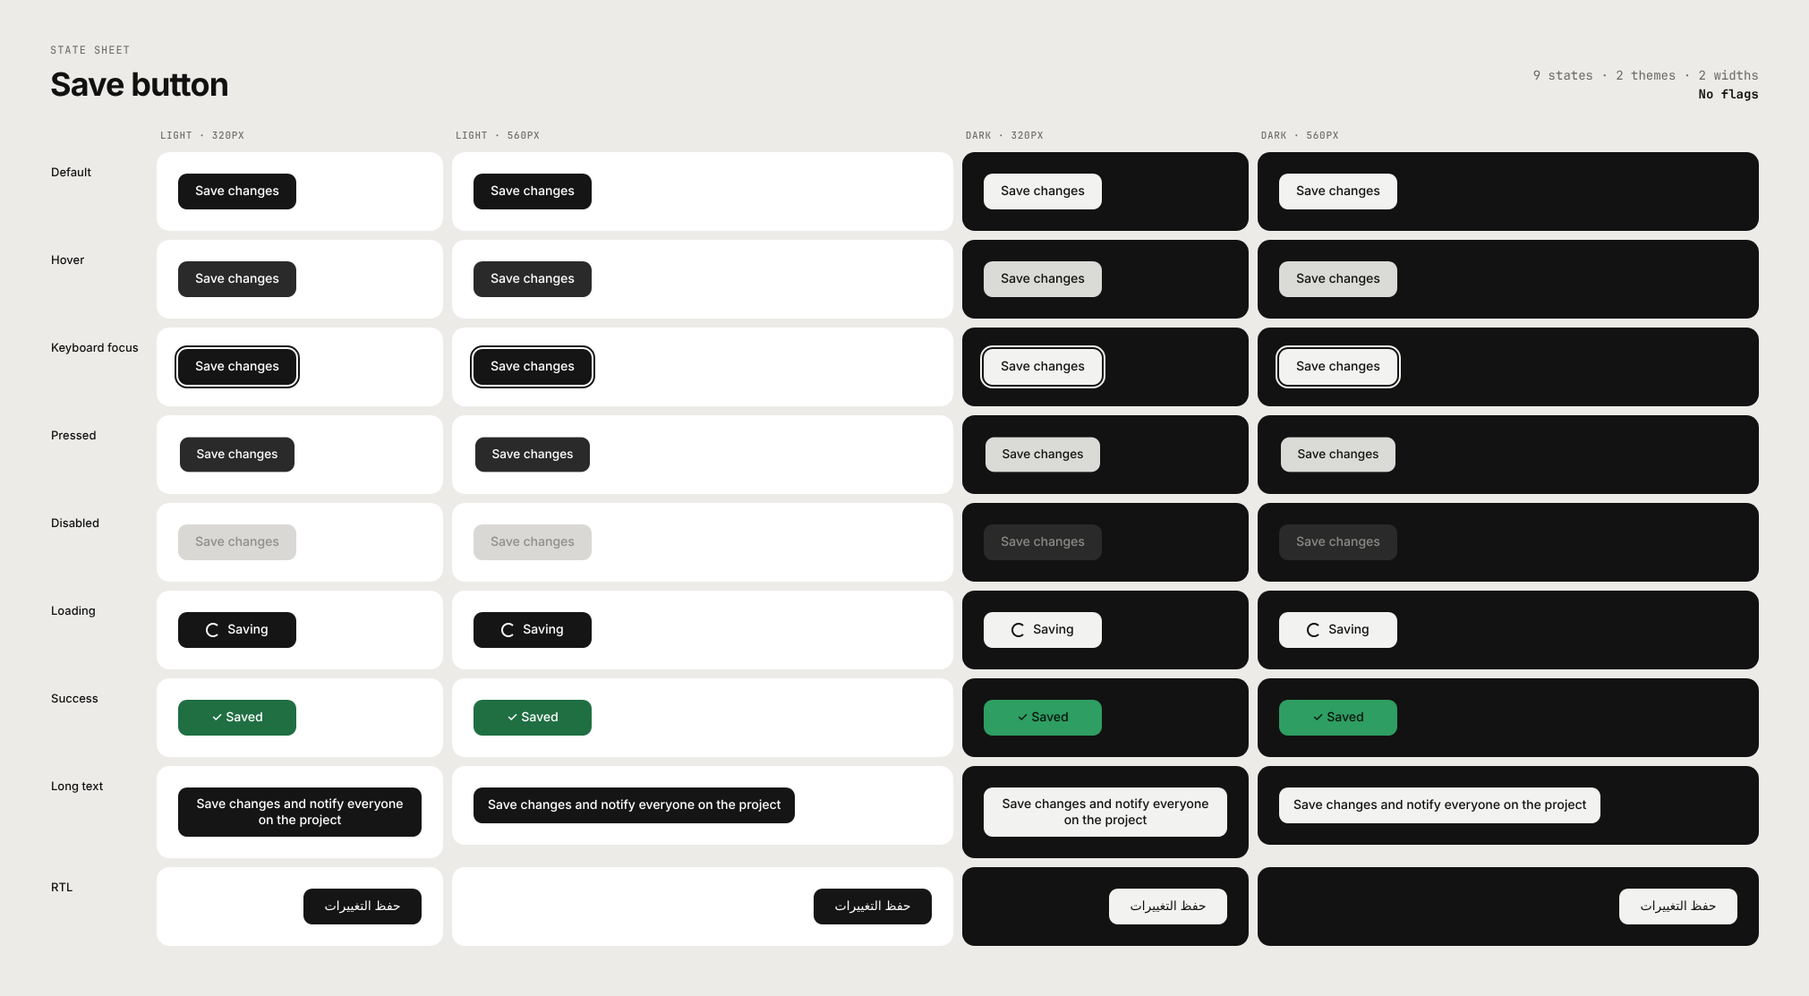
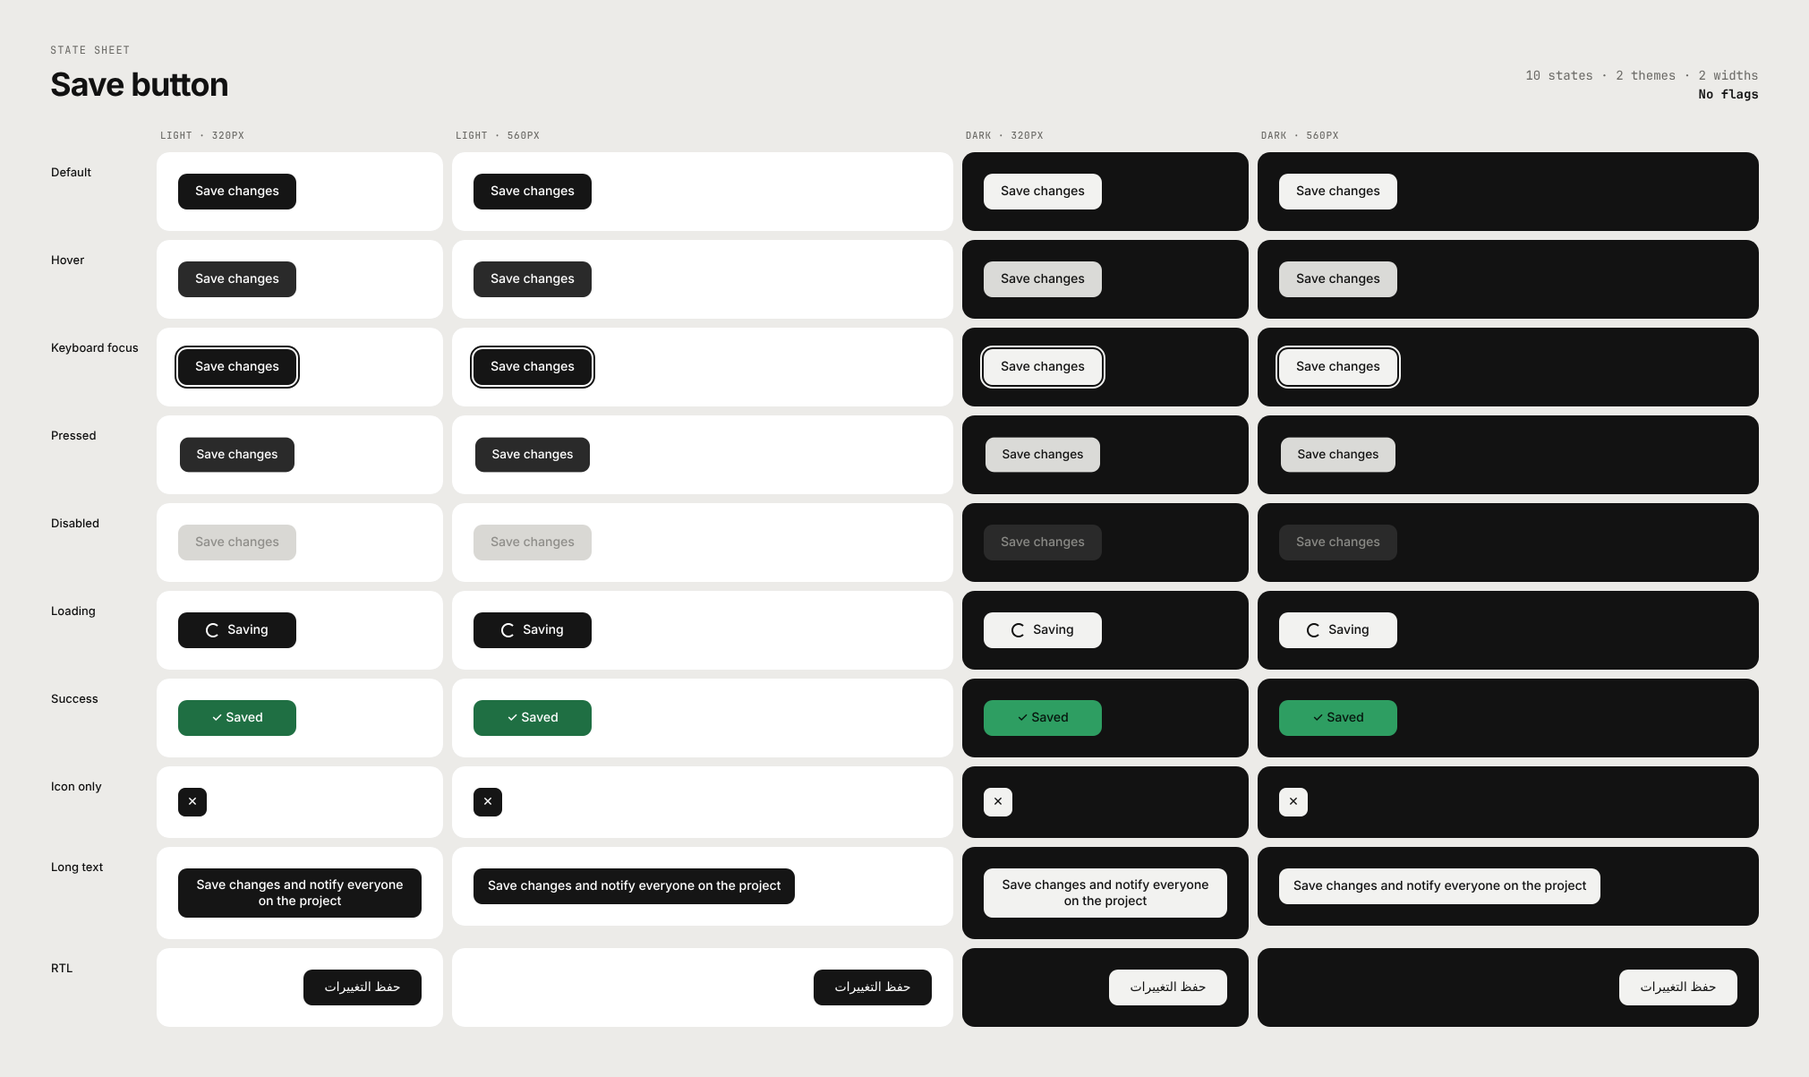
v2: audit against current skill practice
See CHANGELOG.md for the full list of changes in 2.0.0.

Claude-Session: https://claude.ai/code/session_01Y9BqH23FXbrPyWyWBAuxvH

diff --git a/scripts/sheet.js b/scripts/sheet.js
@@ -5,7 +5,9 @@
  *   node scripts/sheet.js --html path/to/component.html --cases path/to/cases.json --out out/
  *   node scripts/sheet.js --url "http://localhost:5173/__sheet?case={case}&theme={theme}" --cases cases.json --out out/
  *
- * Options: --widths 320,560   --themes light,dark   --title "Pricing card"   --strict (exit 1 on any flag)
+ * Options: --widths 320,560   --themes light,dark   --title "Pricing card"   --only default,loading
+ *          --strict (exit 1 on any flag)
+ * Per case: "interact": "hover|focus|press", "dir": "rtl", "sameSizeAs": "<case id>", "reducedMotion": true
  *
  * Writes out/sheet.png, out/report.json and out/report.md.
  */
@@ -40,7 +42,9 @@ if ((!htmlPath && !urlTemplate) || !casesPath) {
 }
 
 const spec = JSON.parse(fs.readFileSync(casesPath, 'utf8'));
-const cases = spec.cases;
+const only = arg('only') ? arg('only').split(',') : null;
+const cases = only ? spec.cases.filter((c) => only.includes(c.id)) : spec.cases;
+if (!cases.length) { console.error('No cases to render' + (only ? ' (check --only ids)' : '')); process.exit(2); }
 const title = arg('title', spec.title || path.basename(path.dirname(path.resolve(casesPath))));
 fs.mkdirSync(outDir, { recursive: true });
 
@@ -126,6 +130,12 @@ async function inspect(page) {
       if (el.scrollWidth > el.clientWidth + 1 && cs.textOverflow === 'ellipsis' && /^[^\d]{0,6}[\d][\d,.\s-]*[^\d]{0,6}$/.test(txt)) {
         flags.push({ kind: 'overflow', msg: `Number cut off: "${label}"` });
       }
+      // Clipped vertically: a fixed height hides lines, with no line clamp to say it's on purpose.
+      const clipsY = ['hidden', 'clip'].includes(cs.overflowY) || ['hidden', 'clip'].includes(cs.overflow);
+      const clamped = cs.webkitLineClamp && cs.webkitLineClamp !== 'none';
+      if (el.scrollHeight > el.clientHeight + 2 && clipsY && !clamped) {
+        flags.push({ kind: 'overflow', msg: `Text clipped vertically: "${label}"` });
+      }
       // Spill: text box runs outside the component.
       if (er.right > r.right + 1 || er.left < r.left - 1) {
         const key = 'spill' + label;
@@ -142,6 +152,15 @@ async function inspect(page) {
         const need = large ? 3 : 4.5;
         const cr = ratio(fgSolid, bg);
         if (cr < need) flags.push({ kind: 'contrast', msg: `Contrast ${cr.toFixed(2)}:1 under ${need}:1 on "${label}"` });
+      }
+    }
+    // Target size (WCAG 2.2, 2.5.8): controls need at least 24 x 24 px. Links inside running text are exempt.
+    for (const el of root.querySelectorAll('button, a[href], input:not([type="hidden"]), select, textarea, [role="button"], [role="switch"], [role="checkbox"], [role="tab"]')) {
+      const b = el.getBoundingClientRect();
+      if (b.width === 0 || b.height === 0) continue;
+      if (el.tagName === 'A' && el.closest('p, li') && el.closest('p, li').textContent.trim().length > el.textContent.trim().length + 10) continue;
+      if (b.width < 24 || b.height < 24) {
+        flags.push({ kind: 'target', msg: `Target too small: ${Math.round(b.width)}x${Math.round(b.height)}px (needs 24x24)` });
       }
     }
     return { flags, size };
@@ -190,7 +209,7 @@ async function interact(page, c) {
   for (const c of cases) {
     for (const theme of themes) {
       for (const width of widths) {
-        const context = await browser.newContext({ viewport: { width: width + 48, height: 800 }, deviceScaleFactor: 2, colorScheme: theme });
+        const context = await browser.newContext({ viewport: { width: width + 48, height: 800 }, deviceScaleFactor: 2, colorScheme: theme, reducedMotion: c.reducedMotion ? 'reduce' : 'no-preference' });
         const page = await context.newPage();
         if (componentHtml) {
           await page.setContent(hostPage(componentHtml, c, theme, width), { waitUntil: 'load' });

diff --git a/examples/01-button/component.html b/examples/01-button/component.html
@@ -1,4 +1,4 @@
-<!-- Seeded bugs: focus ring removed, loading label low contrast and shrinks, long labels clipped. -->
+<!-- Seeded bugs: focus ring removed, loading label low contrast and shrinks, long labels clipped, icon button too small to tap. -->
 <style>
   .btn { font: 550 14px/1 Inter, system-ui, sans-serif; display: inline-flex; align-items: center; gap: 8px;
     height: 40px; padding: 0 16px; max-width: 200px; white-space: nowrap; overflow: hidden;
@@ -14,10 +14,12 @@
   [data-theme="dark"] .btn:hover { background: #DADAD7; }
   [data-theme="dark"] .btn.loading { background: #222; color: #444; }
   [data-theme="dark"] .btn.success { background: #2E9E62; color: #06150D; }
+  .btn.icon { width: 20px; height: 20px; min-width: 0; min-height: 0; padding: 0; justify-content: center; border-radius: 8px; font-size: 14px; }
   .spin { width: 12px; height: 12px; border-radius: 50%; border: 2px solid currentColor; border-right-color: transparent; }
 </style>
 <script>
   window.renderComponent = function (p) {
+    if (p.icon) return '<button class="btn icon" aria-label="' + p.label + '">✕</button>';
     var cls = 'btn' + (p.loading ? ' loading' : '') + (p.success ? ' success' : '');
     var inner = p.loading ? '<span class="spin"></span>Saving' : (p.success ? '✓ ' : '') + p.label;
     return '<button class="' + cls + '"' + (p.disabled ? ' disabled' : '') + '>' + inner + '</button>';

diff --git a/examples/02-pricing-card/component.html b/examples/02-pricing-card/component.html
@@ -1,9 +1,9 @@
-<!-- Seeded bugs: hard-coded grey text that disappears in dark mode, huge prices spill out. -->
+<!-- Seeded bugs: hard-coded grey text that disappears in dark mode, huge prices spill out, long plan names cut off at one line. -->
 <style>
   .card { font-family: Inter, system-ui, sans-serif; background: #fff; border-radius: 16px; padding: 20px;
     box-shadow: 0 0 0 1px rgba(0,0,0,.06), 0 8px 24px rgba(0,0,0,.06); color: #111; max-width: 300px; }
   [data-theme="dark"] .card { background: #1C1C1C; box-shadow: 0 0 0 1px rgba(255,255,255,.06); color: #F2F2F0; }
-  .plan { margin: 0 0 4px; font-size: 13px; font-weight: 550; color: #555; }
+  .plan { margin: 0 0 4px; font-size: 13px; line-height: 18px; height: 18px; overflow: hidden; font-weight: 550; color: #555; }
   .price { margin: 0 0 14px; font-size: 32px; font-weight: 700; letter-spacing: -.02em; white-space: nowrap; width: 160px; }
   .price small { font-size: 13px; font-weight: 450; color: #555; letter-spacing: 0; }
   ul { list-style: none; margin: 0 0 16px; padding: 0; font-size: 13px; line-height: 1.6; }

diff --git a/examples/01-button/component.fixed.html b/examples/01-button/component.fixed.html
@@ -15,10 +15,12 @@
   [data-theme="dark"] .btn:focus-visible { outline-color: #F2F2F0; }
   [data-theme="dark"] .btn.success { background: #2E9E62; color: #06150D; }
   [data-theme="dark"] .btn:disabled { background: #2A2A2A; color: #8A8A86; }
+  .btn.icon { width: 32px; height: 32px; min-width: 0; min-height: 0; padding: 0; justify-content: center; border-radius: 8px; font-size: 14px; }
   .spin { width: 12px; height: 12px; border-radius: 50%; border: 2px solid currentColor; border-right-color: transparent; }
 </style>
 <script>
   window.renderComponent = function (p) {
+    if (p.icon) return '<button class="btn icon" aria-label="' + p.label + '">✕</button>';
     var cls = 'btn' + (p.loading ? ' loading' : '') + (p.success ? ' success' : '');
     var inner = p.loading ? '<span class="spin"></span>Saving' : (p.success ? '✓ ' : '') + p.label;
     return '<button class="' + cls + '"' + (p.disabled ? ' disabled' : '') + (p.loading ? ' aria-busy="true"' : '') + '>' + inner + '</button>';

diff --git a/SKILL.md b/SKILL.md
@@ -12,27 +12,30 @@ Designers used to lay out every state of a component side by side and spot the b
 1. **Pick the cases.** Start from the standard list in `references/cases.md`. Keep the ones that apply to this component, and write realistic props for each (real names, real lengths, real numbers). Save them as `cases.json` next to the component.
 2. **Make the component renderable per case.** Two options:
    - **Plain HTML/CSS/JS:** write a `component.html` harness that defines `window.renderComponent(props, { theme })` and returns an HTML string or element. Include the component's real CSS. See `examples/`.
-   - **React, Vue, Svelte or any app with a dev server:** add a dev-only route, for example `/__sheet?case=<id>&theme=<light|dark>`, that renders the component with that case's props inside `<div data-sheet-root>`, and sets `data-theme` on `<html>`. Don't ship this route.
+   - **React, Vue, Svelte, Next.js or any app with a dev server:** add a dev-only route, for example `/__sheet?case=<id>&theme=<light|dark>`, that renders the component with that case's props inside `<div data-sheet-root>`, and sets `data-theme` on `<html>`. Copy the recipe for the app's framework from `references/frameworks.md`. Don't ship this route.
 3. **Render the sheet.**
    ```bash
    node scripts/sheet.js --html component.html --cases cases.json --out state-sheet
    # or
    node scripts/sheet.js --url "http://localhost:5173/__sheet?case={case}&theme={theme}" --cases cases.json --out state-sheet
    ```
-   Options: `--widths 320,560`, `--themes light,dark`, `--title "Pricing card"`, `--strict` (exit 1 on any flag, for CI).
+   Options: `--widths 320,560`, `--themes light,dark`, `--title "Pricing card"`, `--only loading,error` (re-render just the cases you're fixing), `--strict` (exit 1 on any flag, for CI). The URL may also use `{width}`.
+   Per case: `"interact": "hover|focus|press"`, `"dir": "rtl"`, `"sameSizeAs": "<case id>"`, `"reducedMotion": true`.
 4. **Show the sheet first.** Share `state-sheet/sheet.png` and the flag table from `report.md`. Lead with the count: "3 of 9 states break."
-5. **Look as well as measure.** Automatic flags catch overflow, contrast, missing focus, size jumps and empty renders. Look at the image too for what they can't catch: a dark mode that ignores a state, RTL icons pointing the wrong way, a spinner that looks like an error. Call these out by cell.
-6. **Fix, then re-run.** Propose fixes one flag at a time, apply them, and render the sheet again so the person sees every cell go clean.
+5. **Look as well as measure.** Automatic flags catch overflow, contrast, missing focus, small tap targets, size jumps and empty renders. Look at the image too for what they can't catch: a dark mode that ignores a state, RTL icons pointing the wrong way, a spinner that looks like an error. Call these out by cell.
+6. **Fix, then re-run.** Propose fixes one flag at a time, apply them, and render the sheet again (`--only` the broken cases while fixing, then the full sheet) so the person sees every cell go clean.
 
 ## What gets flagged
 
 | Flag | Meaning |
 | --- | --- |
 | Text clipped | Content is wider than its box and gets cut with no ellipsis |
+| Text clipped vertically | Content is taller than a fixed-height box and the bottom lines are hidden (line clamps are fine) |
 | Number cut off | An amount, ID or count is truncated with an ellipsis |
 | Spills out of the component | Text runs past the component's edge |
 | Contrast | Text under WCAG AA (4.5:1, or 3:1 for large text). Disabled controls are exempt |
 | No visible focus ring | Tab reaches the control but nothing visibly changes |
+| Target too small | A button or control is under 24 x 24 px (WCAG 2.2, 2.5.8). Links inside a sentence are exempt |
 | Size changes | A state marked `sameSizeAs` changes size (for example a button that shrinks while loading) |
 | Renders nothing | The case produced no content: a missing state |
 

diff --git a/references/frameworks.md b/references/frameworks.md
@@ -1,0 +1,86 @@
+# Sheet routes for apps
+
+For a component that lives in an app, add one dev-only page that renders it with one case's props. The script opens it once per case, theme and width:
+
+```bash
+node scripts/sheet.js --url "http://localhost:5173/__sheet?case={case}&theme={theme}&width={width}" --cases cases.json --out state-sheet
+```
+
+The page must:
+
+1. Read `case` and `theme` from the query string.
+2. Look up that case's `props` in the same `cases.json` the script uses (import it, don't copy it).
+3. Render the component inside `<div data-sheet-root>`. The script screenshots and measures only that element.
+4. Set `data-theme` (or your app's dark class) on `<html>`. The browser's colour scheme is set as well, so `prefers-color-scheme` works on its own.
+5. Never ship. Guard it with a dev check and keep it out of navigation.
+
+## React with Vite
+
+```jsx
+// src/dev/Sheet.jsx  (mounted only when import.meta.env.DEV)
+import cases from '../components/PricingCard/cases.json';
+import { PricingCard } from '../components/PricingCard';
+
+export default function Sheet() {
+  const q = new URLSearchParams(location.search);
+  const c = cases.cases.find((x) => x.id === q.get('case'));
+  document.documentElement.dataset.theme = q.get('theme') || 'light';
+  return <div data-sheet-root>{c ? <PricingCard {...c.props} /> : null}</div>;
+}
+```
+
+```jsx
+// src/main.jsx
+const isSheet = import.meta.env.DEV && location.pathname === '/__sheet';
+const Root = isSheet ? (await import('./dev/Sheet.jsx')).default : App;
+```
+
+## Next.js (app router)
+
+```jsx
+// app/__sheet/page.jsx
+import { notFound } from 'next/navigation';
+import cases from '@/components/PricingCard/cases.json';
+import { PricingCard } from '@/components/PricingCard';
+
+export default async function Sheet({ searchParams }) {
+  if (process.env.NODE_ENV === 'production') notFound();
+  const q = await searchParams;
+  const c = cases.cases.find((x) => x.id === q.case);
+  return (
+    <html data-theme={q.theme || 'light'}>
+      <body><div data-sheet-root>{c ? <PricingCard {...c.props} /> : null}</div></body>
+    </html>
+  );
+}
+```
+
+If the root layout already renders `<html>`, set the theme with a small client effect instead.
+
+## Vue with Vite
+
+```vue
+<!-- src/dev/Sheet.vue, routed at /__sheet only when import.meta.env.DEV -->
+<script setup>
+import cases from '../components/PricingCard/cases.json';
+import PricingCard from '../components/PricingCard.vue';
+const q = new URLSearchParams(location.search);
+const c = cases.cases.find((x) => x.id === q.get('case'));
+document.documentElement.dataset.theme = q.get('theme') || 'light';
+</script>
+
+<template>
+  <div data-sheet-root><PricingCard v-if="c" v-bind="c.props" /></div>
+</template>
+```
+
+## Svelte and others
+
+Same four steps: read the query, find the case, set the theme, render inside `data-sheet-root`.
+
+## States that need a nudge
+
+- **Hover, focus, pressed:** set `"interact": "hover" | "focus" | "press"` on the case. The script does it for real; don't fake it with a prop.
+- **Loading and error from data:** pass the state as a prop (`status: "loading"`) or mock the fetch in the sheet page. Never wait on a real network.
+- **Reduced motion:** set `"reducedMotion": true` on a case to render it with `prefers-reduced-motion: reduce`.
+- **One case at a time** while fixing: `--only loading,error`.

diff --git a/README.md b/README.md
@@ -13,11 +13,12 @@ Designers used to lay out every state side by side and spot the broken one at a 
 
 | Flag | Meaning |
 | --- | --- |
-| Text clipped | Content is cut off with no ellipsis |
+| Text clipped | Content is cut off with no ellipsis, sideways or at the bottom |
 | Number cut off | An amount, ID or count is truncated |
 | Spills out | Text runs past the component's edge |
 | Contrast | Text under WCAG AA |
 | No visible focus ring | Tab reaches the control but nothing changes |
+| Target too small | A button is under 24 x 24 px, too small to tap (WCAG 2.2) |
 | Size changes | A state jumps in size, like a button that shrinks while loading |
 | Renders nothing | A missing state |
 
@@ -50,13 +51,13 @@ Or run it yourself on a plain HTML component:
 node scripts/sheet.js --html examples/01-button/component.html --cases examples/01-button/cases.json --out out
 ```
 
-For React, Vue or Svelte, Claude adds a dev-only route (for example `/__sheet?case=loading&theme=dark`) and the script screenshots it:
+For React, Vue, Next.js or Svelte, Claude adds a dev-only route (recipes in [`references/frameworks.md`](references/frameworks.md)) (for example `/__sheet?case=loading&theme=dark`) and the script screenshots it:
 
 ```bash
 node scripts/sheet.js --url "http://localhost:5173/__sheet?case={case}&theme={theme}" --cases cases.json --out out
 ```
 
-Options: `--widths 320,560`, `--themes light,dark`, `--strict` to fail CI on any flag.
+Options: `--widths 320,560`, `--themes light,dark`, `--only loading,error` to re-render just the cases you're fixing, `--strict` to fail CI on any flag. Add `"reducedMotion": true` to a case to see it with reduced motion on.
 
 ## Examples
 
@@ -64,8 +65,8 @@ Each example has a component with planted bugs, a fixed version, and both sheets
 
 | Example | Planted bugs | Sheet |
 | --- | --- | --- |
-| [Save button](examples/01-button) | No focus ring, loading label too faint, loading button shrinks, long labels clipped | [before](examples/01-button/out/sheet.png) · [after](examples/01-button/out-fixed/sheet.png) |
-| [Pricing card](examples/02-pricing-card) | Grey text vanishes in dark mode, huge prices spill out | [before](examples/02-pricing-card/out/sheet.png) · [after](examples/02-pricing-card/out-fixed/sheet.png) |
+| [Save button](examples/01-button) | No focus ring, loading label too faint, loading button shrinks, long labels clipped, icon button too small to tap | [before](examples/01-button/out/sheet.png) · [after](examples/01-button/out-fixed/sheet.png) |
+| [Pricing card](examples/02-pricing-card) | Grey text vanishes in dark mode, huge prices spill out, long plan names cut off at the bottom | [before](examples/02-pricing-card/out/sheet.png) · [after](examples/02-pricing-card/out-fixed/sheet.png) |
 | [Invoices table](examples/03-data-table) | Empty state renders nothing, error text too faint, amounts cut off | [before](examples/03-data-table/out/sheet.png) · [after](examples/03-data-table/out-fixed/sheet.png) |
 
 ## Quality

diff --git a/examples/02-pricing-card/out/report.md b/examples/02-pricing-card/out/report.md
@@ -1,6 +1,6 @@
 # State sheet: Pricing card
 
-6 states, light and dark, 320 and 560 px. 13 cells flagged.
+6 states, light and dark, 320 and 560 px. 15 cells flagged.
 
 | State | Theme | Width | Problem |
 | --- | --- | --- | --- |
@@ -16,8 +16,12 @@
 | empty | dark | 320px | Contrast 2.29:1 under 4.5:1 on "/ month" |
 | empty | dark | 560px | Contrast 2.29:1 under 4.5:1 on "Starter" |
 | empty | dark | 560px | Contrast 2.29:1 under 4.5:1 on "/ month" |
+| long | light | 320px | Text clipped vertically: "Studio for agencies and growing " |
+| long | light | 560px | Text clipped vertically: "Studio for agencies and growing " |
+| long | dark | 320px | Text clipped vertically: "Studio for agencies and growing " |
 | long | dark | 320px | Contrast 2.29:1 under 4.5:1 on "Studio for agencies and growing " |
 | long | dark | 320px | Contrast 2.29:1 under 4.5:1 on "/ month" |
+| long | dark | 560px | Text clipped vertically: "Studio for agencies and growing " |
 | long | dark | 560px | Contrast 2.29:1 under 4.5:1 on "Studio for agencies and growing " |
 | long | dark | 560px | Contrast 2.29:1 under 4.5:1 on "/ month" |
 | huge | light | 320px | Spills out of the component: "/ month" |

diff --git a/evals/README.md b/evals/README.md
@@ -3,7 +3,7 @@
 | Layer | Question | How | Status |
 | --- | --- | --- | --- |
 | 1. Trigger | Does Claude load the skill at the right time? | `triggers.json`: 10 prompts that should load it, 10 that shouldn't. Target 9 of 10 each side. | Prompt set written, not yet scored |
-| 2. Correctness | Does it catch real bugs without crying wolf? | `node scripts/check.js`: every seeded bug in the 3 examples is flagged, the fixed versions come back clean, each sheet renders in under 30 s. | Passing (9 seeded bugs found, 0 false flags) |
+| 2. Correctness | Does it catch real bugs without crying wolf? | `node scripts/check.js`: every seeded bug in the 3 examples is flagged, the fixed versions come back clean, each sheet renders in under 30 s. | Passing (11 seeded bugs found, 0 false flags) |
 | 3. Better than nothing | Does a review with the skill find more than a review without it? | 5 components with hidden bugs, reviewed with and without the skill, 3 runs each. Count bugs found and false alarms. Ship rule: with-skill finds more in 4 of 5. | Not yet run |
 
 ## Taste tests

diff --git a/examples/01-button/out/report.md b/examples/01-button/out/report.md
@@ -1,6 +1,6 @@
 # State sheet: Save button
 
-9 states, light and dark, 320 and 560 px. 12 cells flagged.
+10 states, light and dark, 320 and 560 px. 16 cells flagged.
 
 | State | Theme | Width | Problem |
 | --- | --- | --- | --- |
@@ -16,6 +16,10 @@
 | loading | dark | 320px | Size changes vs default: 126x40 to 89x40 |
 | loading | dark | 560px | Contrast 1.63:1 under 4.5:1 on "Saving" |
 | loading | dark | 560px | Size changes vs default: 126x40 to 89x40 |
+| icon | light | 320px | Target too small: 20x20px (needs 24x24) |
+| icon | light | 560px | Target too small: 20x20px (needs 24x24) |
+| icon | dark | 320px | Target too small: 20x20px (needs 24x24) |
+| icon | dark | 560px | Target too small: 20x20px (needs 24x24) |
 | long | light | 320px | Text clipped: "Save changes and notify everyone" |
 | long | light | 560px | Text clipped: "Save changes and notify everyone" |
 | long | dark | 320px | Text clipped: "Save changes and notify everyone" |

diff --git a/CHANGELOG.md b/CHANGELOG.md
@@ -1,5 +1,15 @@
 # Changelog
 
+## 2.0.0 (2026-11-16)
+
+- New flag: **Target too small**. Buttons and controls under 24 x 24 px (WCAG 2.2, 2.5.8). Links inside sentences are exempt.
+- New flag: **Text clipped vertically**. Fixed-height boxes that hide their last lines. Intentional line clamps are left alone.
+- `--only` renders just the cases you name, for quick fix-and-check loops.
+- Cases can set `"reducedMotion": true`.
+- URL templates can use `{width}`.
+- `references/frameworks.md`: copy-paste sheet routes for React with Vite, Next.js and Vue.
+- Examples: icon-only button too small to tap (save button), plan name cut at the bottom (pricing card). 11 planted bugs, all caught; fixed versions clean.
+
 ## 0.1.0 (2026-11-12)
 
 - First release: sheet renderer (HTML harness or dev-server URL), 7 automatic flags, 12 standard cases, 3 examples with seeded bugs and fixes, checks.

diff --git a/examples/01-button/out-fixed/report.md b/examples/01-button/out-fixed/report.md
@@ -1,5 +1,5 @@
 # State sheet: Save button
 
-9 states, light and dark, 320 and 560 px. 0 cells flagged.
+10 states, light and dark, 320 and 560 px. 0 cells flagged.
 
 No problems found.
